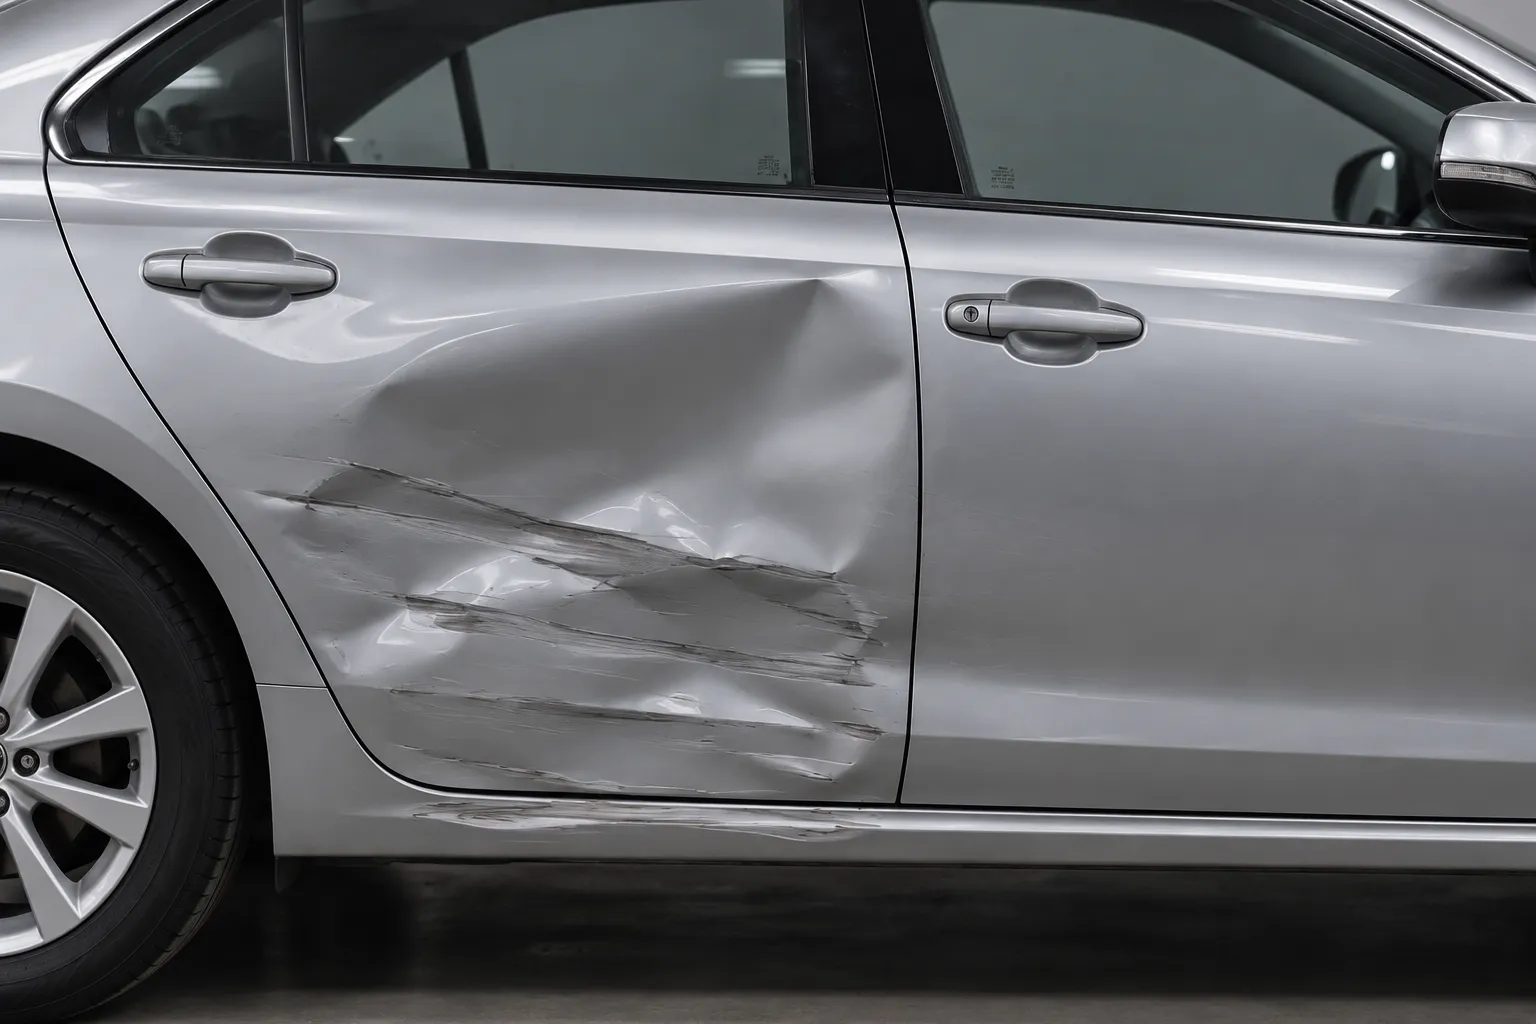
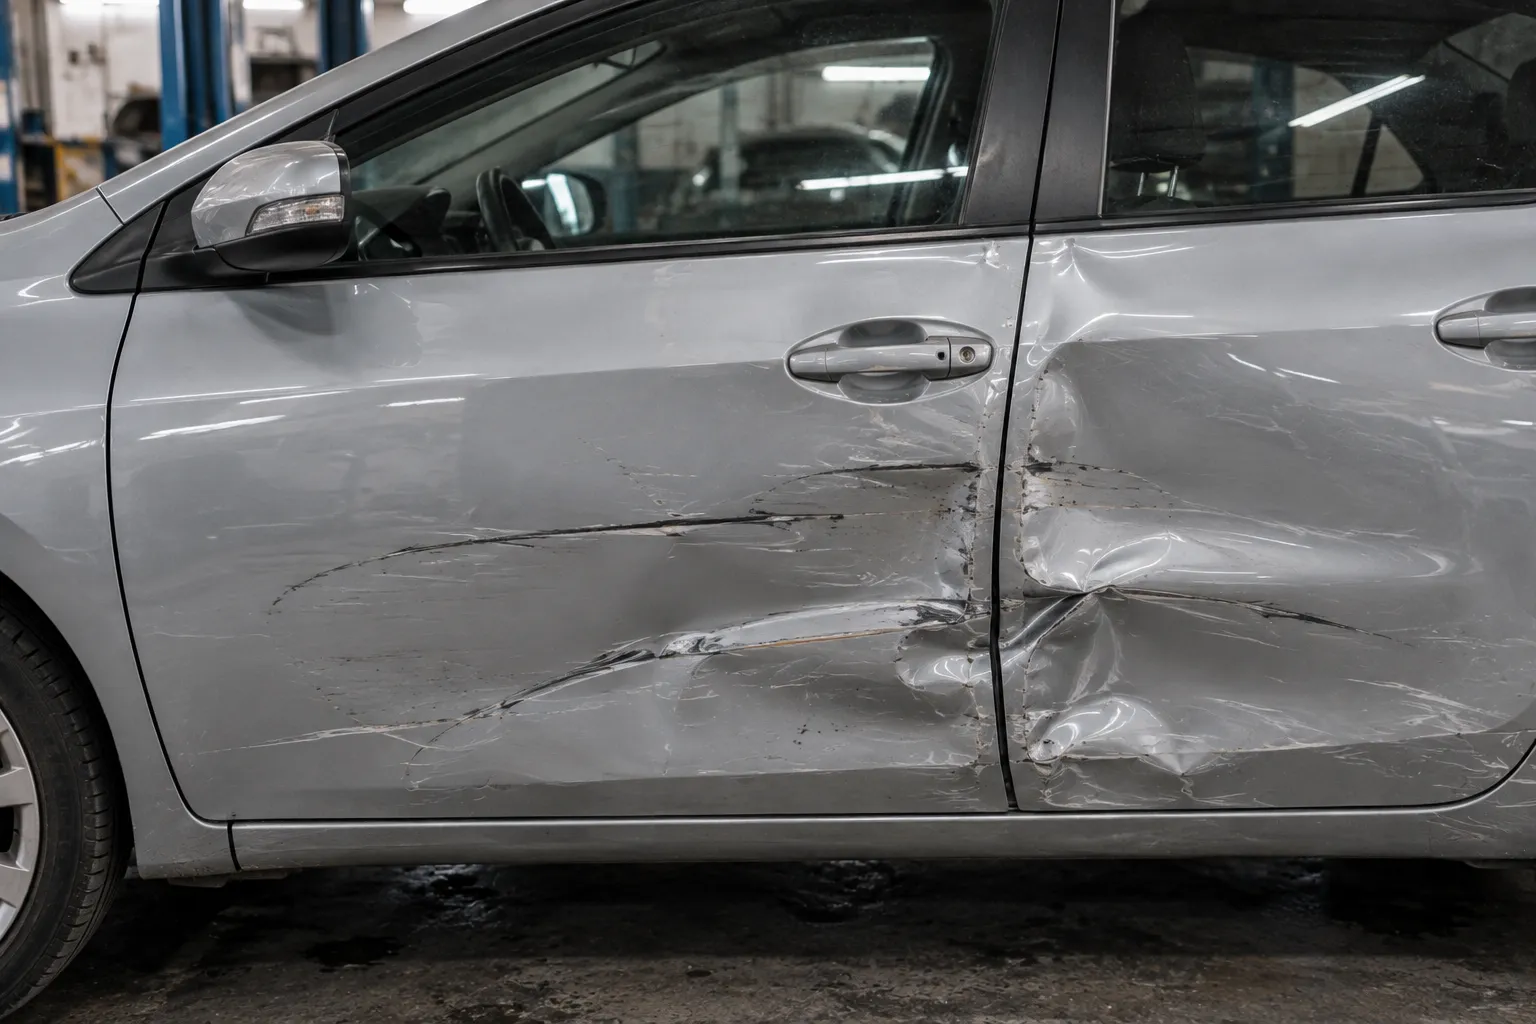
Fotos nuevas: una por servicio, antes/despues alineado y sin letreros
Reemplaza las 5 fotos anteriores (repetidas y con texto en ingles) por 8
fotos nuevas en WebP. Los PNG originales quedan fuera del repo.

diff --git a/index.html b/index.html
@@ -141,7 +141,7 @@ img{display:block}
 </header>
 
 <section id="inicio" data-screen-label="Hero" style="position: relative; min-height: calc(100svh - 64px); display: flex; align-items: flex-end; overflow: hidden; background: var(--marino);">
-  <img src="img/taller.webp" fetchpriority="high" alt="Interior del taller OSW con un carro en proceso de pintura" style="position: absolute; inset: 0; width: 100%; height: 100%; object-fit: cover; object-position: 55% center;">
+  <img src="img/inicio.webp" fetchpriority="high" alt="Interior del taller OSW con un carro en proceso de pintura" style="position: absolute; inset: 0; width: 100%; height: 100%; object-fit: cover; object-position: 70% center;">
   <div style="position: absolute; inset: 0; background: rgba(11,42,74,0.78);"></div>
   <div style="position: relative; width: 100%; max-width: 1120px; margin: 0 auto; padding: var(--espacio-6) var(--espacio-3) calc(var(--espacio-7) + 56px); display: flex; flex-direction: column; gap: var(--espacio-4); color: var(--sobre-color);">
     <span data-reveal="" style="font: var(--tipo-boton); font-size: 14px; letter-spacing: 0.12em; text-transform: uppercase;">Enderezado y pintura · Zona 11</span>
@@ -572,11 +572,11 @@ class Component extends DCLogic {
       waLink: 'https://wa.me/50241686982?text=' + encodeURIComponent(msg),
       barraMovil: this.props.barraMovil ?? true,
       servicios: [
-        { num: '01', img: 'img/proceso.webp', pos: '40% center', titulo: 'Enderezado de carrocería', texto: 'Puertas hundidas, guardafangos doblados, capó levantado. Devolvemos la lámina a su forma para que todo vuelva a cerrar parejo.' },
-        { num: '02', img: 'img/herramientas.webp', pos: '80% center', titulo: 'Pintura por pieza o completa', texto: 'Pintamos en cabina, no al aire libre: sin polvo, sin chorreados y con brillo que dura.' },
-        { num: '03', img: 'img/despues.webp', pos: '45% center', titulo: 'Igualación de color', texto: 'Sacamos el tono exacto de su carro, aunque el sol ya lo haya gastado, para que la pieza reparada no se note.' },
-        { num: '04', img: 'img/antes.webp', pos: '35% center', titulo: 'Golpes y rayones', texto: 'Desde el rayón del parqueo hasta el bumper hundido. Lo que le da pena ver cada mañana, lo dejamos como nuevo.' },
-        { num: '05', img: 'img/taller.webp', pos: '55% center', titulo: 'Pulido y abrillantado', texto: 'Quitamos rayas finas y manchas, y le devolvemos el brillo a la pintura opaca.' }
+        { num: '01', img: 'img/enderezado.webp', pos: '50% 45%', titulo: 'Enderezado de carrocería', texto: 'Puertas hundidas, guardafangos doblados, capó levantado. Devolvemos la lámina a su forma para que todo vuelva a cerrar parejo.' },
+        { num: '02', img: 'img/pintura.webp', pos: '45% 40%', titulo: 'Pintura por pieza o completa', texto: 'Pintamos en cabina, no al aire libre: sin polvo, sin chorreados y con brillo que dura.' },
+        { num: '03', img: 'img/color.webp', pos: '40% 55%', titulo: 'Igualación de color', texto: 'Sacamos el tono exacto de su carro, aunque el sol ya lo haya gastado, para que la pieza reparada no se note.' },
+        { num: '04', img: 'img/rayones.webp', pos: '45% 65%', titulo: 'Golpes y rayones', texto: 'Desde el rayón del parqueo hasta el bumper hundido. Lo que le da pena ver cada mañana, lo dejamos como nuevo.' },
+        { num: '05', img: 'img/pulido.webp', pos: '45% 50%', titulo: 'Pulido y abrillantado', texto: 'Quitamos rayas finas y manchas, y le devolvemos el brillo a la pintura opaca.' }
       ],
       garantias: [
         'Sabe el precio antes de que toquemos el carro',
